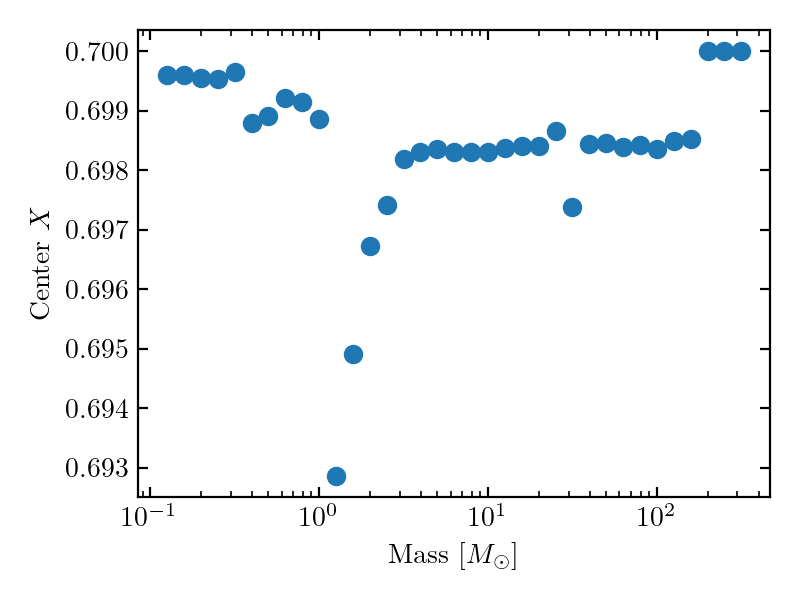
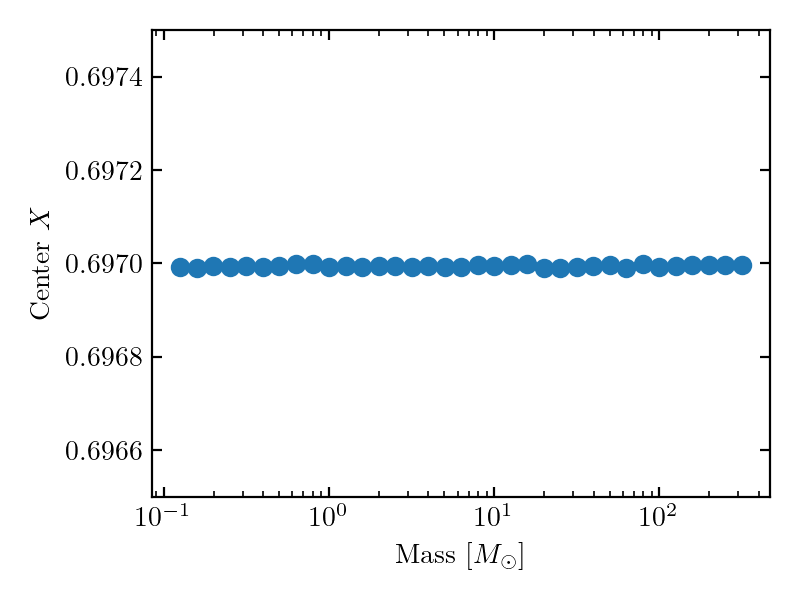
update ZAMS plots

diff --git a/data/star_data/zams_models/plot.py b/data/star_data/zams_models/plot.py
@@ -30,6 +30,8 @@ plt.xscale('log')
 plt.xlabel(r'Mass [$M_\odot$]')
 plt.ylabel(r'Center $X$')
 
+plt.ylim(0.6965,0.6975)
+
 plt.savefig('CenterXfrac.png',dpi=200)
 
 plt.clf()
